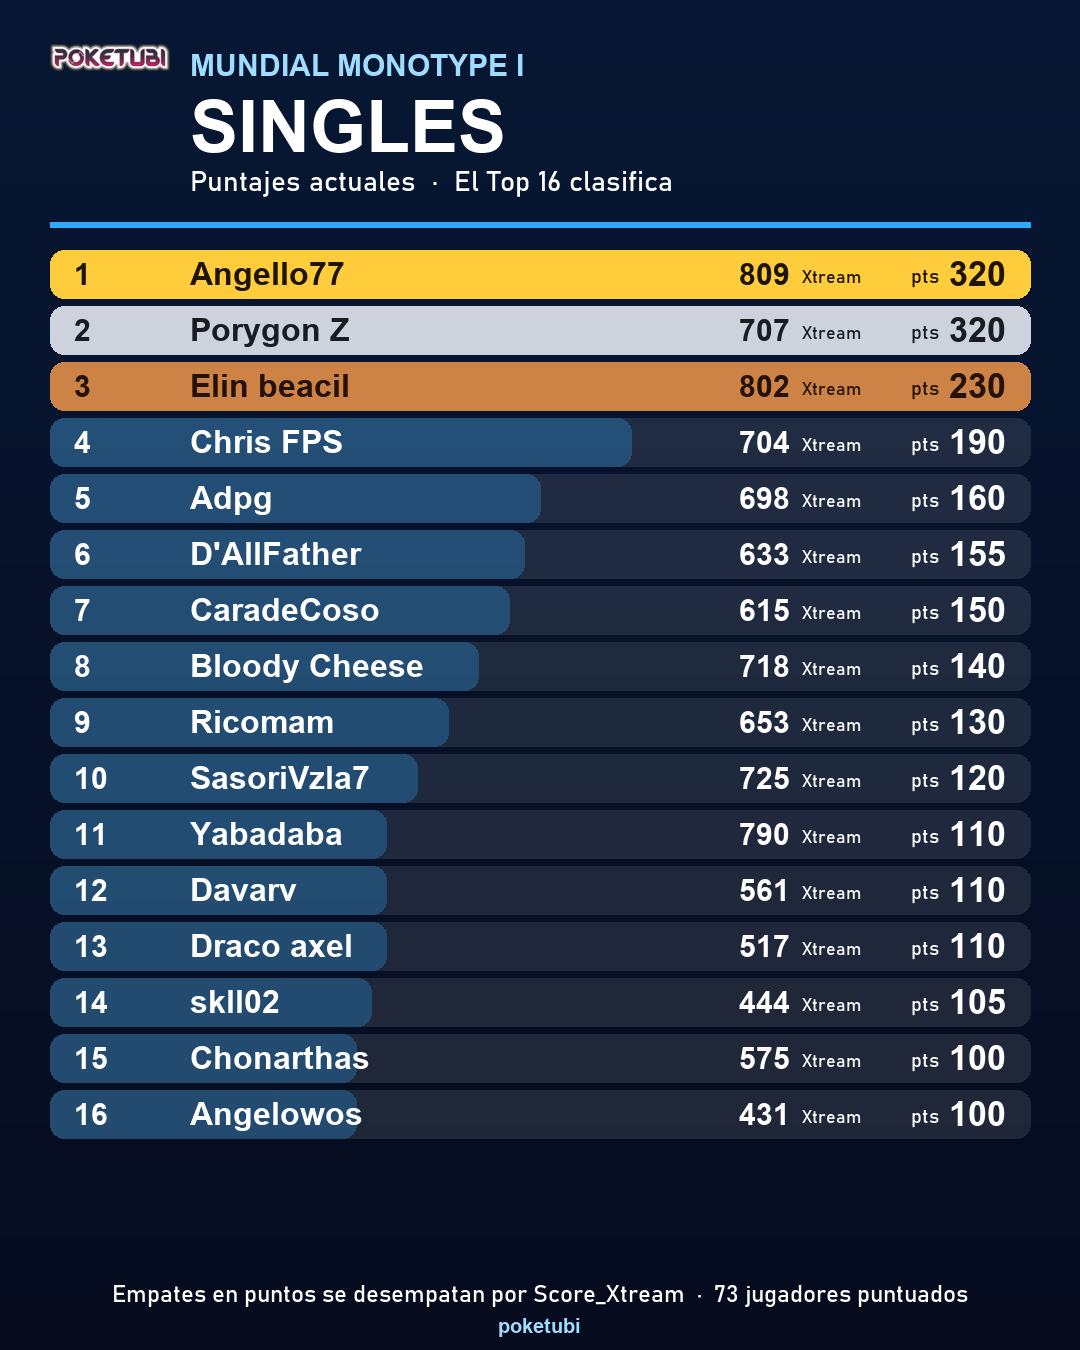
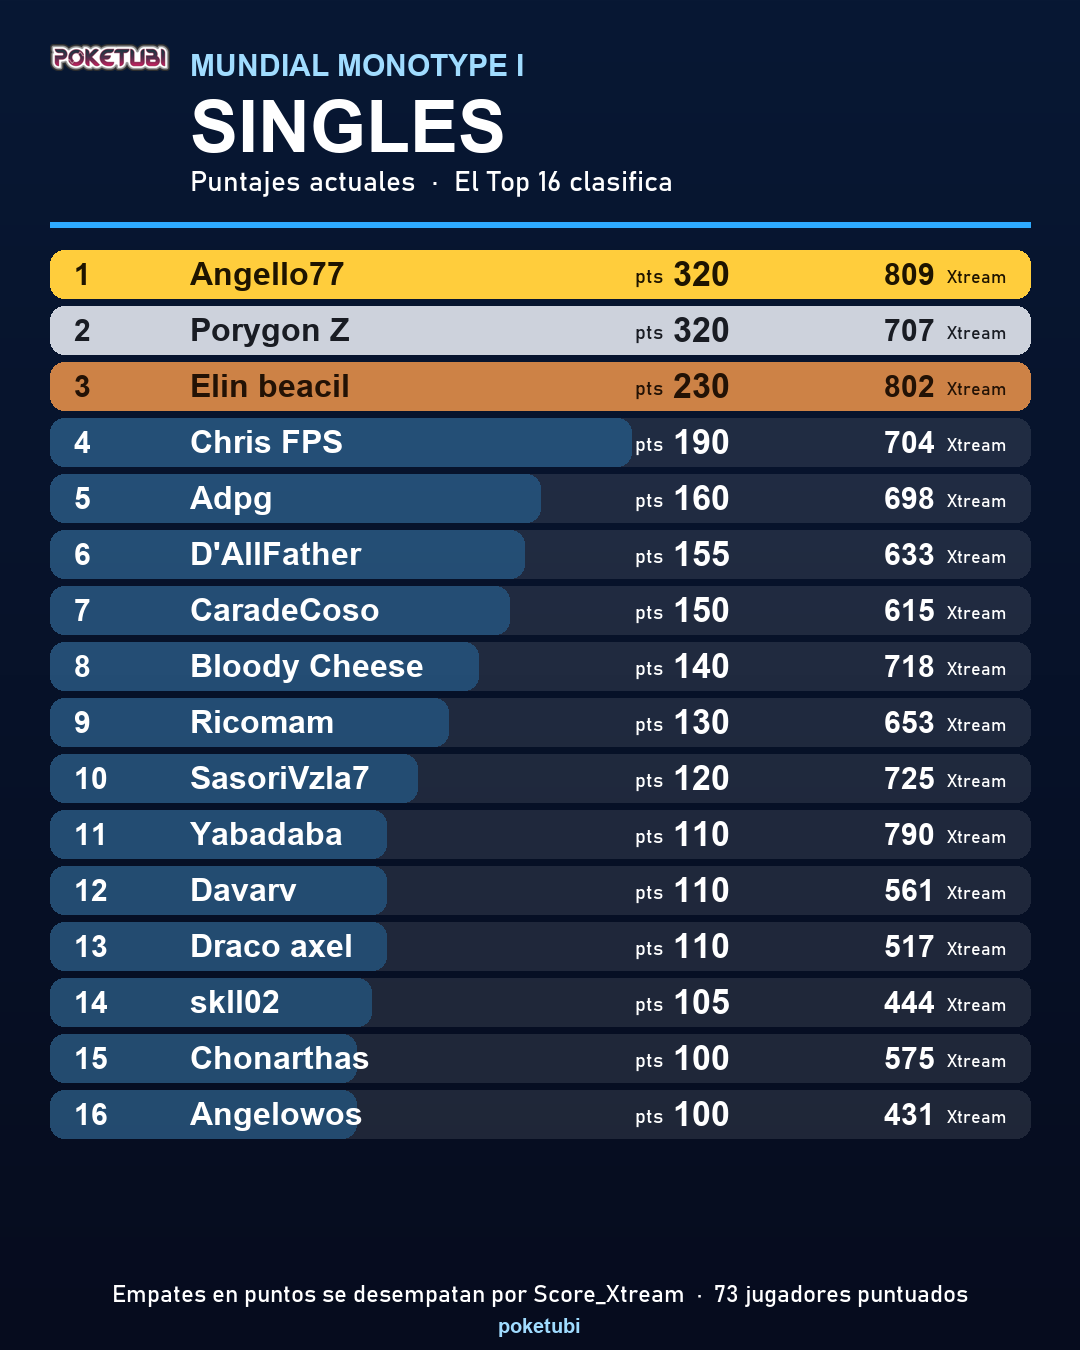
Rankings Monotype I: puntos del Mundial primero, luego Score_Xtream

Changed region(s): [[0.5806, 0.1867, 0.7944, 0.84], [0.825, 0.1867, 0.9472, 0.84]]

diff --git a/generar_ranking_monotype_png.py b/generar_ranking_monotype_png.py
@@ -106,15 +106,15 @@ def dibujar(fmt, filas):
             d.rounded_rectangle([50, y, 50 + max(ancho_b, 30), y + alto_fila - 8], radius=14, fill=acento + (70,))
         cy = y + (alto_fila - 8) // 2
         d.text((74, cy), f"{rank}", font=_f(30, True), fill=texto_c, anchor="lm")
-        nombre = _texto_ajustado(d, jug, _f(32, True), 440)
+        nombre = _texto_ajustado(d, jug, _f(32, True), 400)
         d.text((190, cy), nombre, font=_f(32, True), fill=texto_c, anchor="lm")
-        # Score_Xtream al costado (columna entre el nombre y los puntos)
-        sx_txt = f"{sxv:.0f}" if sxv is not None else "-"
-        d.text((790, cy), sx_txt, font=_f(30, True), fill=texto_c, anchor="rm")
-        d.text((802, cy + 3), "Xtream", font=_f(18), fill=texto_c, anchor="lm")
-        d.text((ANCHO - 74, cy), f"{pts}", font=_f(34, True), fill=texto_c, anchor="rm")
-        d.text((ANCHO - 74 - d.textlength(str(pts), font=_f(34, True)) - 10, cy + 3), "pts",
+        # puntos del Mundial primero, luego el Score_Xtream (desempate)
+        d.text((730, cy), f"{pts}", font=_f(34, True), fill=texto_c, anchor="rm")
+        d.text((730 - d.textlength(str(pts), font=_f(34, True)) - 10, cy + 3), "pts",
                font=_f(20), fill=texto_c, anchor="rm")
+        sx_txt = f"{sxv:.0f}" if sxv is not None else "-"
+        d.text((935, cy), sx_txt, font=_f(30, True), fill=texto_c, anchor="rm")
+        d.text((947, cy + 3), "Xtream", font=_f(18), fill=texto_c, anchor="lm")
 
     pie = f"Empates en puntos se desempatan por Score_Xtream  ·  {len(filas)} jugadores puntuados"
     d.text((ANCHO // 2, ALTO - 56), pie, font=_f(24), fill=(255, 255, 255, 170), anchor="mm")
